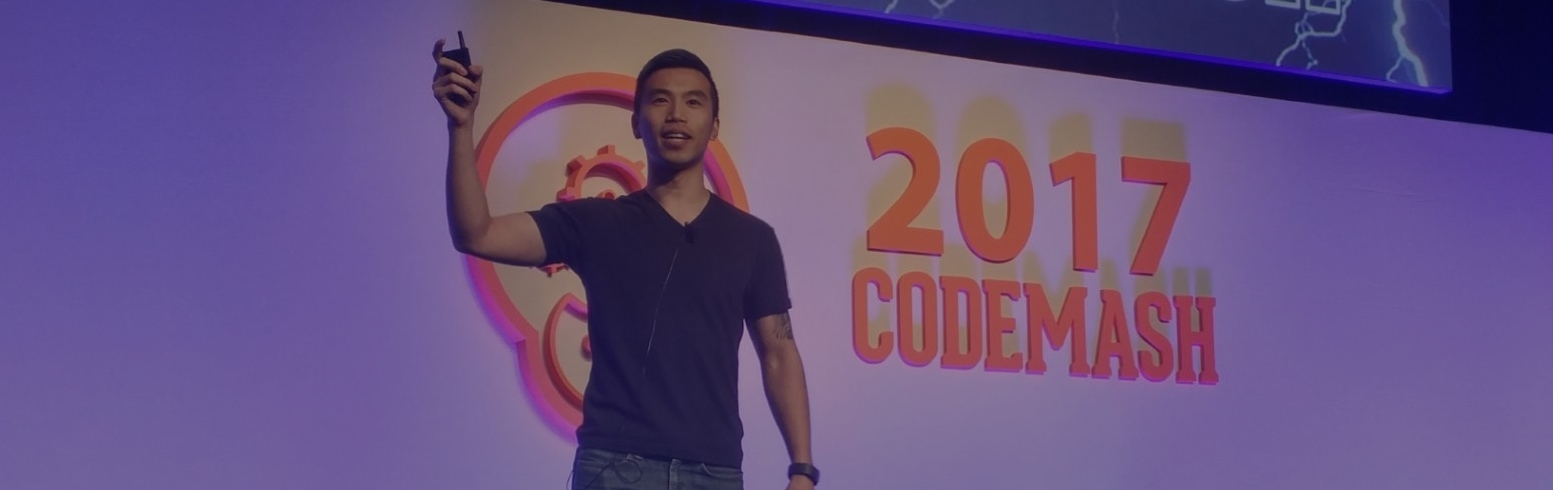
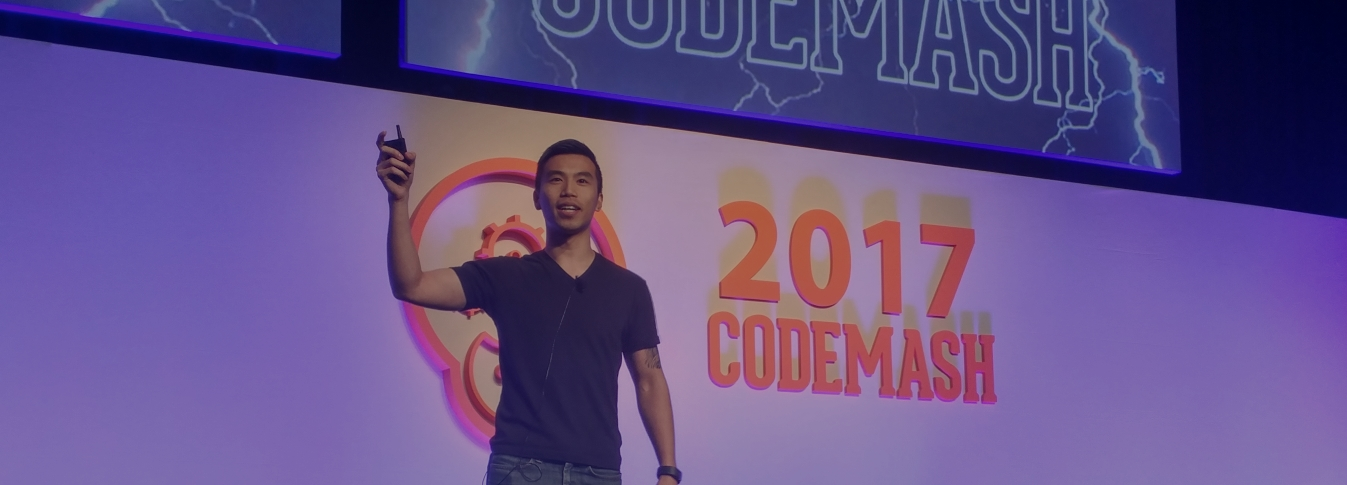
edit page: about | coverHeight 45

diff --git a/public/page/about/index.html b/public/page/about/index.html
@@ -236,7 +236,7 @@ ga('send', 'pageview');
               text-left
               post-header-cover--partial"
     
-       style="background-image:url('/img/pages/about/about_cover.jpg'); height:50%"
+       style="background-image:url('/img/pages/about/about_cover.jpg'); height:45%"
     
        data-behavior="2">
     

diff --git a/content/page/about.md b/content/page/about.md
@@ -3,7 +3,7 @@ title: "Hello World.. I am Kevin!"
 coverImage: /img/pages/about/about_cover.jpg
 coverMeta: in
 coverSize: partial
-coverHeight: 50
+coverHeight: 45
 draft:          false
 comments:       false
 showTags:       false
